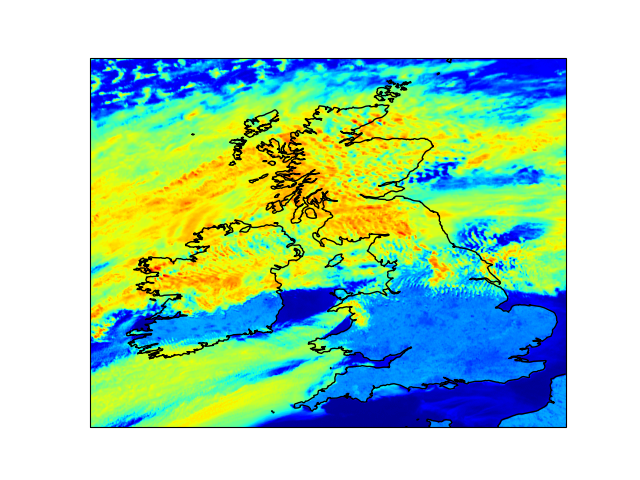
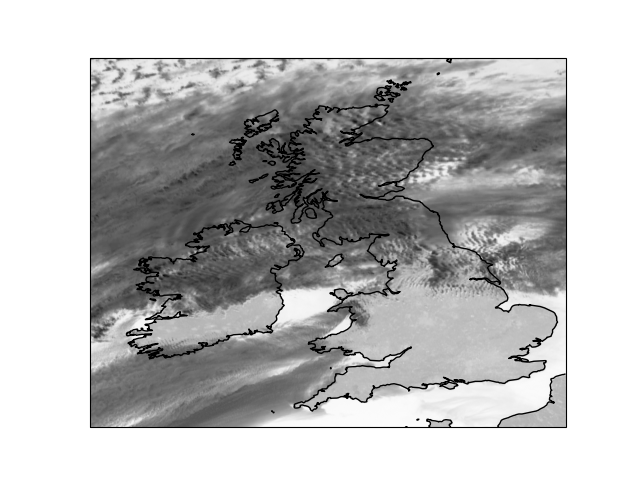
initial commit

diff --git a/file_to_image.py b/file_to_image.py
@@ -9,7 +9,6 @@ def produce_image(filename, save=True, save_name=None, coastlines=False):
     # load file
     global_scene = Scene(reader="seviri_l1b_native", filenames=[filename], reader_kwargs={'fill_disk': True})
     global_scene.load(['HRV'], upper_right_corner='NE')
-    print(global_scene.available_dataset_names())
     # define area
     area_id = '1'
     x_size = 1000
@@ -24,9 +23,13 @@ def produce_image(filename, save=True, save_name=None, coastlines=False):
     scene2 = global_scene.resample(a)
     fig, ax = plt.subplots(1, 1, subplot_kw=dict(projection=crs))
     img = get_enhanced_image(scene2['HRV']).data.transpose('y', 'x', 'bands')
-    ax.imshow(img, transform=crs, extent=crs.bounds, origin='upper', cmap='jet')
+    ax.imshow(img, transform=crs, extent=crs.bounds, origin='upper', cmap='gray')
     if coastlines:
         ax.coastlines()
+
+    # ax.plot([-9.19, -8.82], [51.74, 51.99], marker='x', transform=crs, color='red')
+    # ax.plot([-9.66, -9.37], [51.73, 51.99], marker='x', transform=crs, color='red')
+
 
     if save:
         if save_name is None:
@@ -34,8 +37,10 @@ def produce_image(filename, save=True, save_name=None, coastlines=False):
             if coastlines:
                 save_name = 'coastlines_' + save_name
         plt.savefig('images/' + save_name + '.png')
+    return fig, ax
 
 
-produce_image(
+fig, ax = produce_image(
     'data/MSG3-SEVI-MSG15-0100-NA-20150414124241.311000000Z-NA/MSG3-SEVI-MSG15-0100-NA-20150414124241.311000000Z-NA.nat'
-    , coastlines=True)
+    , save=False)
+plt.show()
